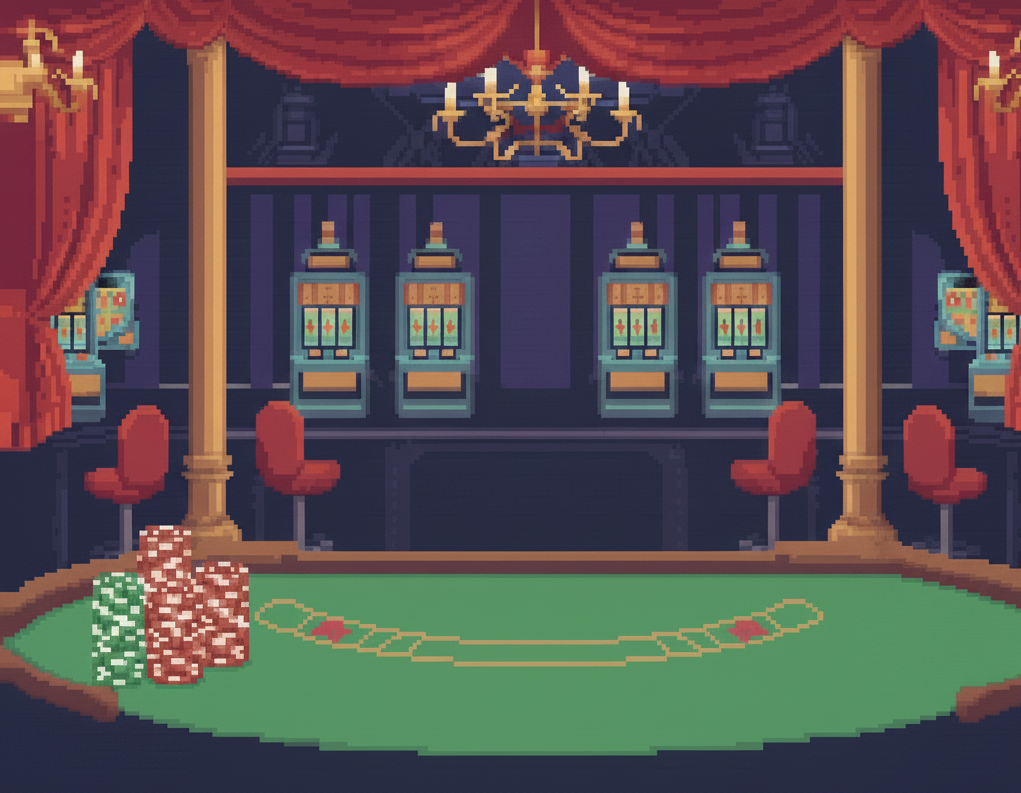
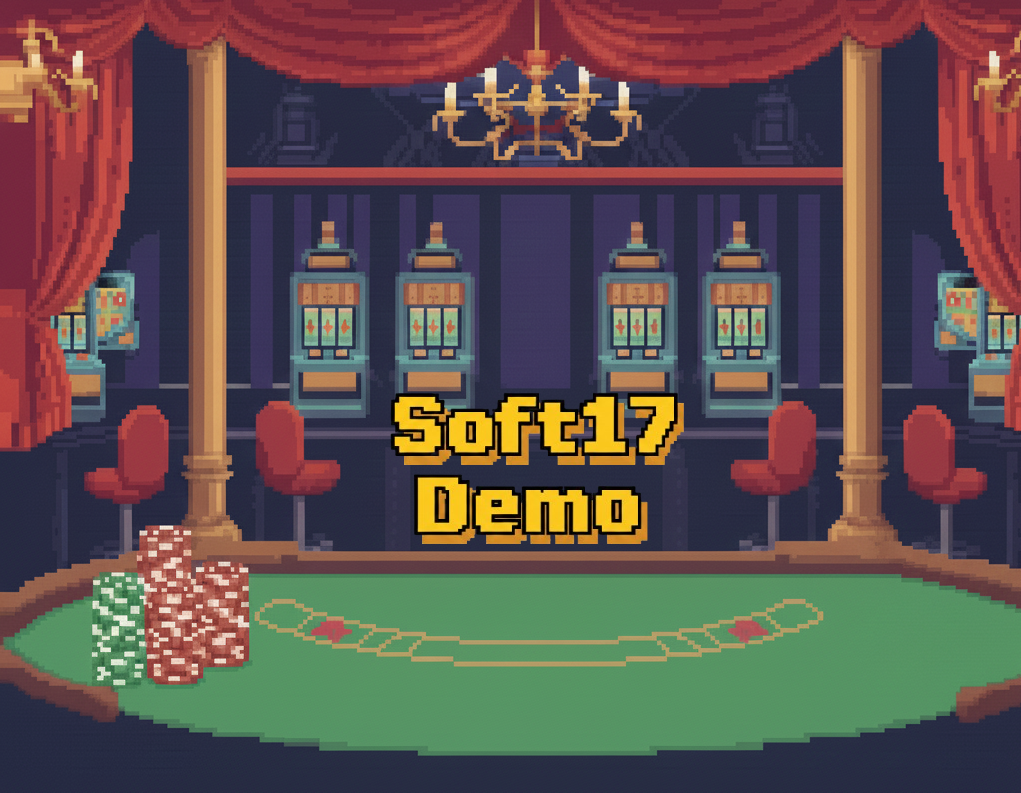
feat: added utility methods and also changed one of the pictures

Changed region(s): [[0.3643, 0.4842, 0.668, 0.6961]]

diff --git a/code/Demo/soft17_demo_sarsa.py b/code/Demo/soft17_demo_sarsa.py
@@ -224,3 +224,73 @@ class SARSAAgent:
 
             if callback and (episode + 1) % 10000 == 0:
                 callback(episode + 1, num_episodes)
+class BlackjackGUI:
+    def __init__(self, root):
+        self.root = root
+        self.root.title("SARSA Blackjack - Soft17")
+        self.root.geometry("1100x650")
+        self.root.configure(bg='#1a472a')
+
+        self.env = BlackjackEnv(num_decks=8)
+        self.agent = SARSAAgent(epsilon=0.01)
+        self.state = None
+        self.game_active = False
+        self.dealer_revealed = False
+        self.show_lock = True
+
+        self.card_images = {}
+        self.bg_images = {}
+
+        self.create_ui()
+        self.start_training()
+
+    def start_training(self):
+        """Avvia il training in un thread separato"""
+        self.log_to_console("=== BENVENUTO AL BLACKJACK SARSA ===\n")
+        self.log_to_console("Inizializzazione in corso...")
+        self.log_to_console("Training del modello SARSA...\n")
+
+        def train_callback(episode, total):
+            self.log_to_console(f"Progresso training: {episode}/{total}")
+
+        def do_training():
+            self.agent.train(self.env, num_episodes=500000, callback=train_callback)
+            self.root.after(0, self.training_complete)
+
+        thread = threading.Thread(target=do_training, daemon=True)
+        thread.start()
+
+    def training_complete(self):
+        self.log_to_console("\n✓ Training completato!")
+        self.log_to_console(f"Q-table: {len(self.agent.q_table)} stati")
+        self.log_to_console("\nRegole: Dealer sta su 17 hard, pesca su 17 soft")
+        self.log_to_console("\nPremi 'NUOVA MANO' per iniziare!")
+        self.load_images()
+
+    def load_images(self):
+        try:
+            for i in range(1, 11):
+                img = Image.open(f"{UPLOAD_PATH}/{i}.png")
+                img = img.resize((70, 98), Image.Resampling.LANCZOS)
+                self.card_images[i] = ImageTk.PhotoImage(img)
+
+            img = Image.open(f"{UPLOAD_PATH}/ace.png")
+            img = img.resize((70, 98), Image.Resampling.LANCZOS)
+            self.card_images[11] = ImageTk.PhotoImage(img)
+
+            img = Image.open(f"{UPLOAD_PATH}/card_back.png")
+            img = img.resize((70, 98), Image.Resampling.LANCZOS)
+            self.card_back = ImageTk.PhotoImage(img)
+
+            img = Image.open(f"{UPLOAD_PATH}/still.png")
+            img = img.resize((650, 280), Image.Resampling.LANCZOS)
+            self.table_bg = ImageTk.PhotoImage(img)
+
+            for name in ['lock', 'win', 'lose', 'draw']:
+                img = Image.open(f"{UPLOAD_PATH}/{name}.png")
+                img = img.resize((650, 280), Image.Resampling.LANCZOS)
+                self.bg_images[name] = ImageTk.PhotoImage(img)
+
+            self.show_lock_screen()
+        except Exception as e:
+            self.log_to_console(f"Errore caricamento immagini: {e}")
